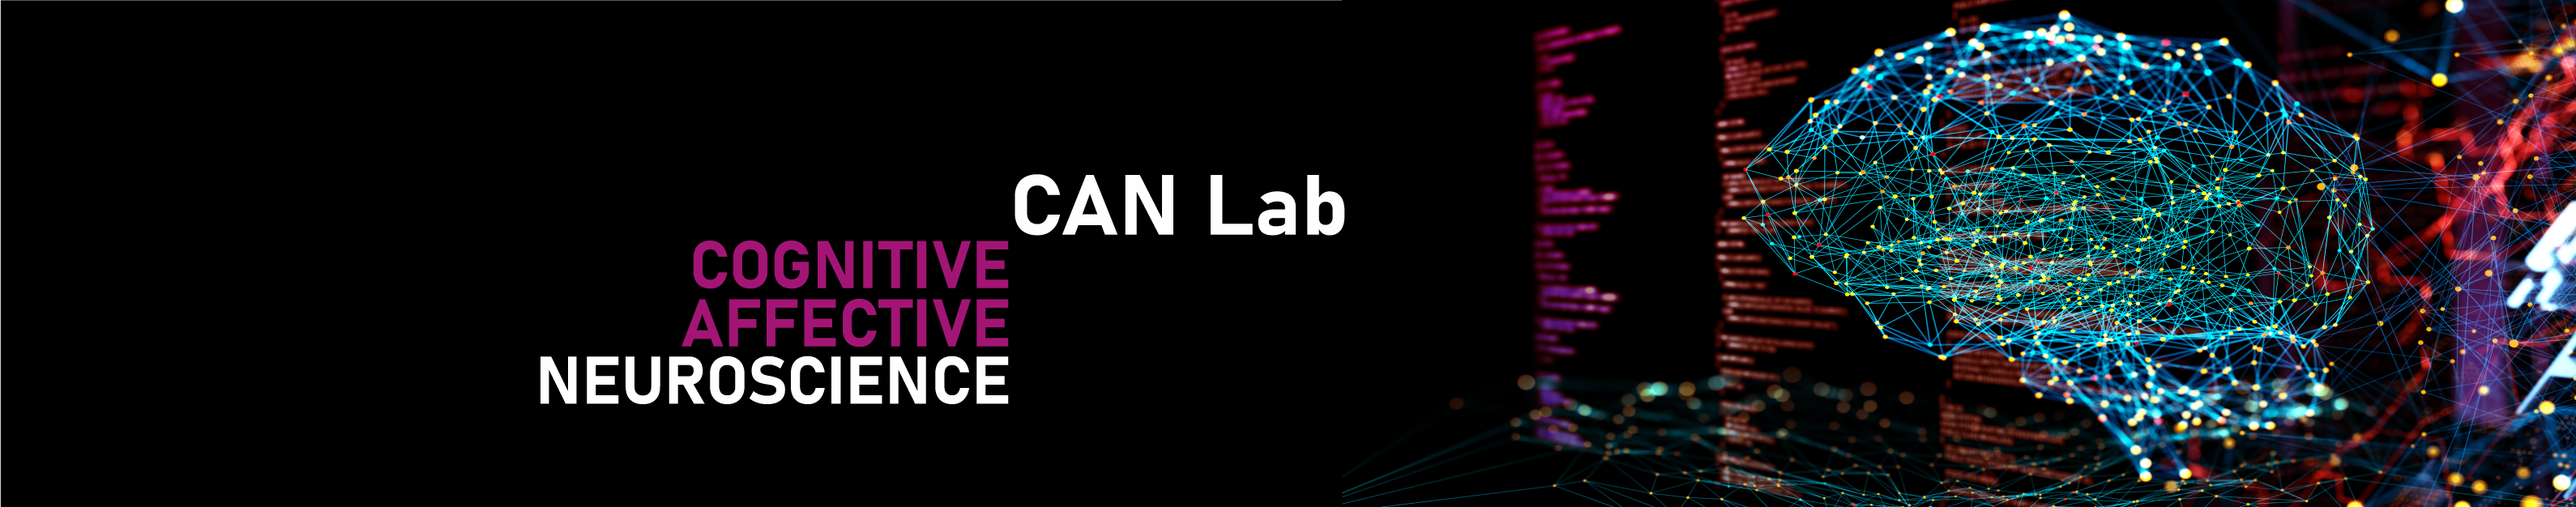
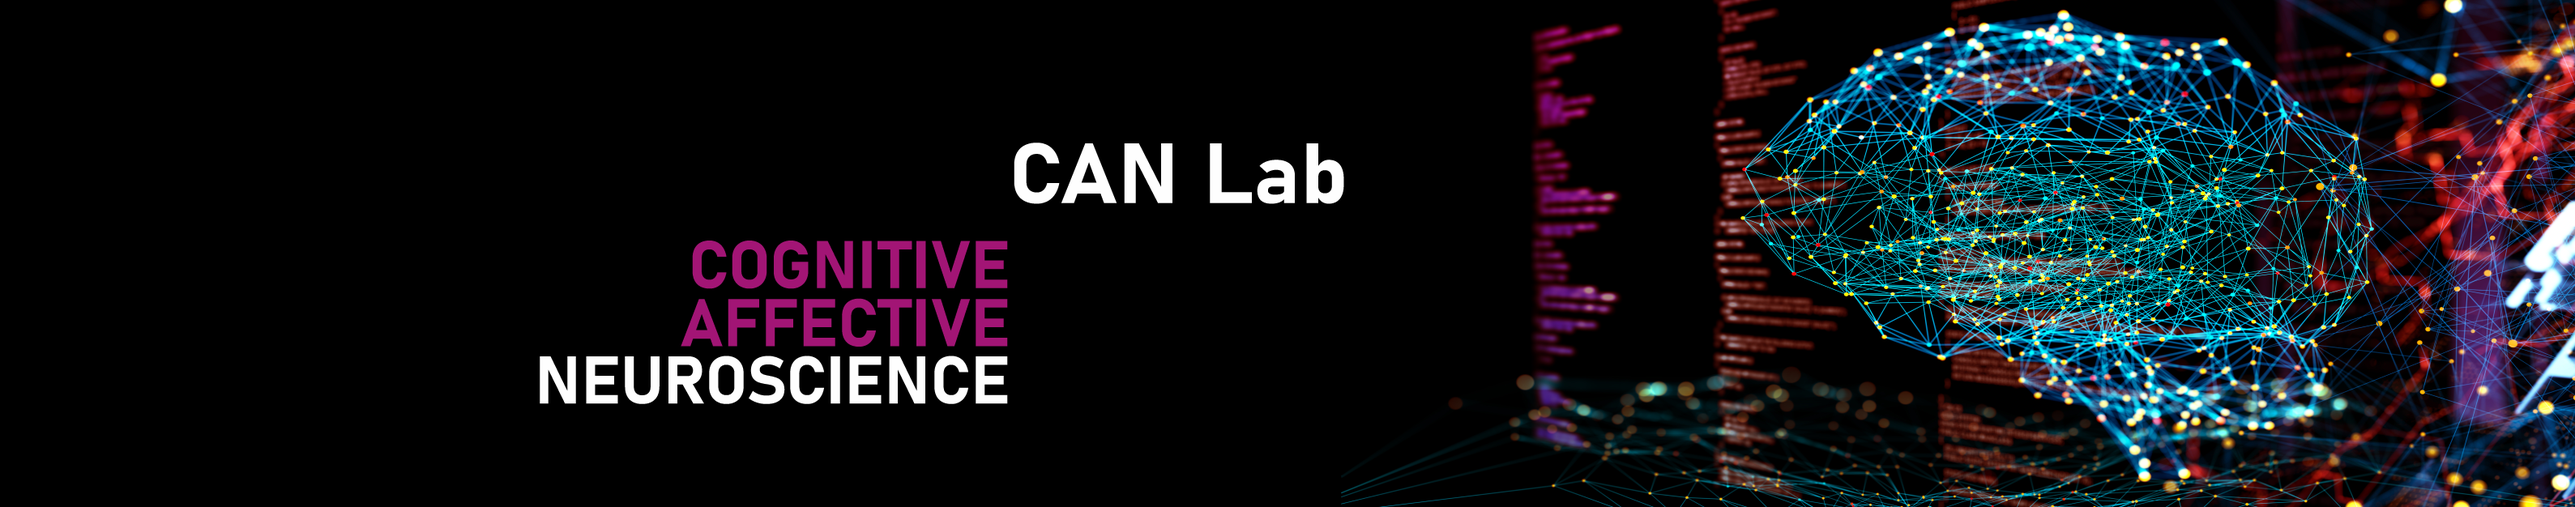
customizing website 2

diff --git a/pages/about.md b/pages/about.md
@@ -1,10 +1,7 @@
 ---
-title: .
-description: .
-background:
-  img: https://images.unsplash.com/photo-1475906089153-644d9452ce87?ixid=MnwxMjA3fDB8MHxwaG90by1wYWdlfHx8fGVufDB8fHx8&auto=format&fit=crop&w=1200&q=80
-  by: CHUTTERSNAP
-  href: https://unsplash.com/photos/UmncJq4KPcA
+title:
+description:
+background: /assets/theme/images/canlab_home2.png
 permalink: /about/
 ---
 

diff --git a/pages/team.md b/pages/team.md
@@ -2,5 +2,6 @@
 layout: team
 title:
 description:
+background: /assets/theme/images/canlab_home2.png
 permalink: /team/
 ---
